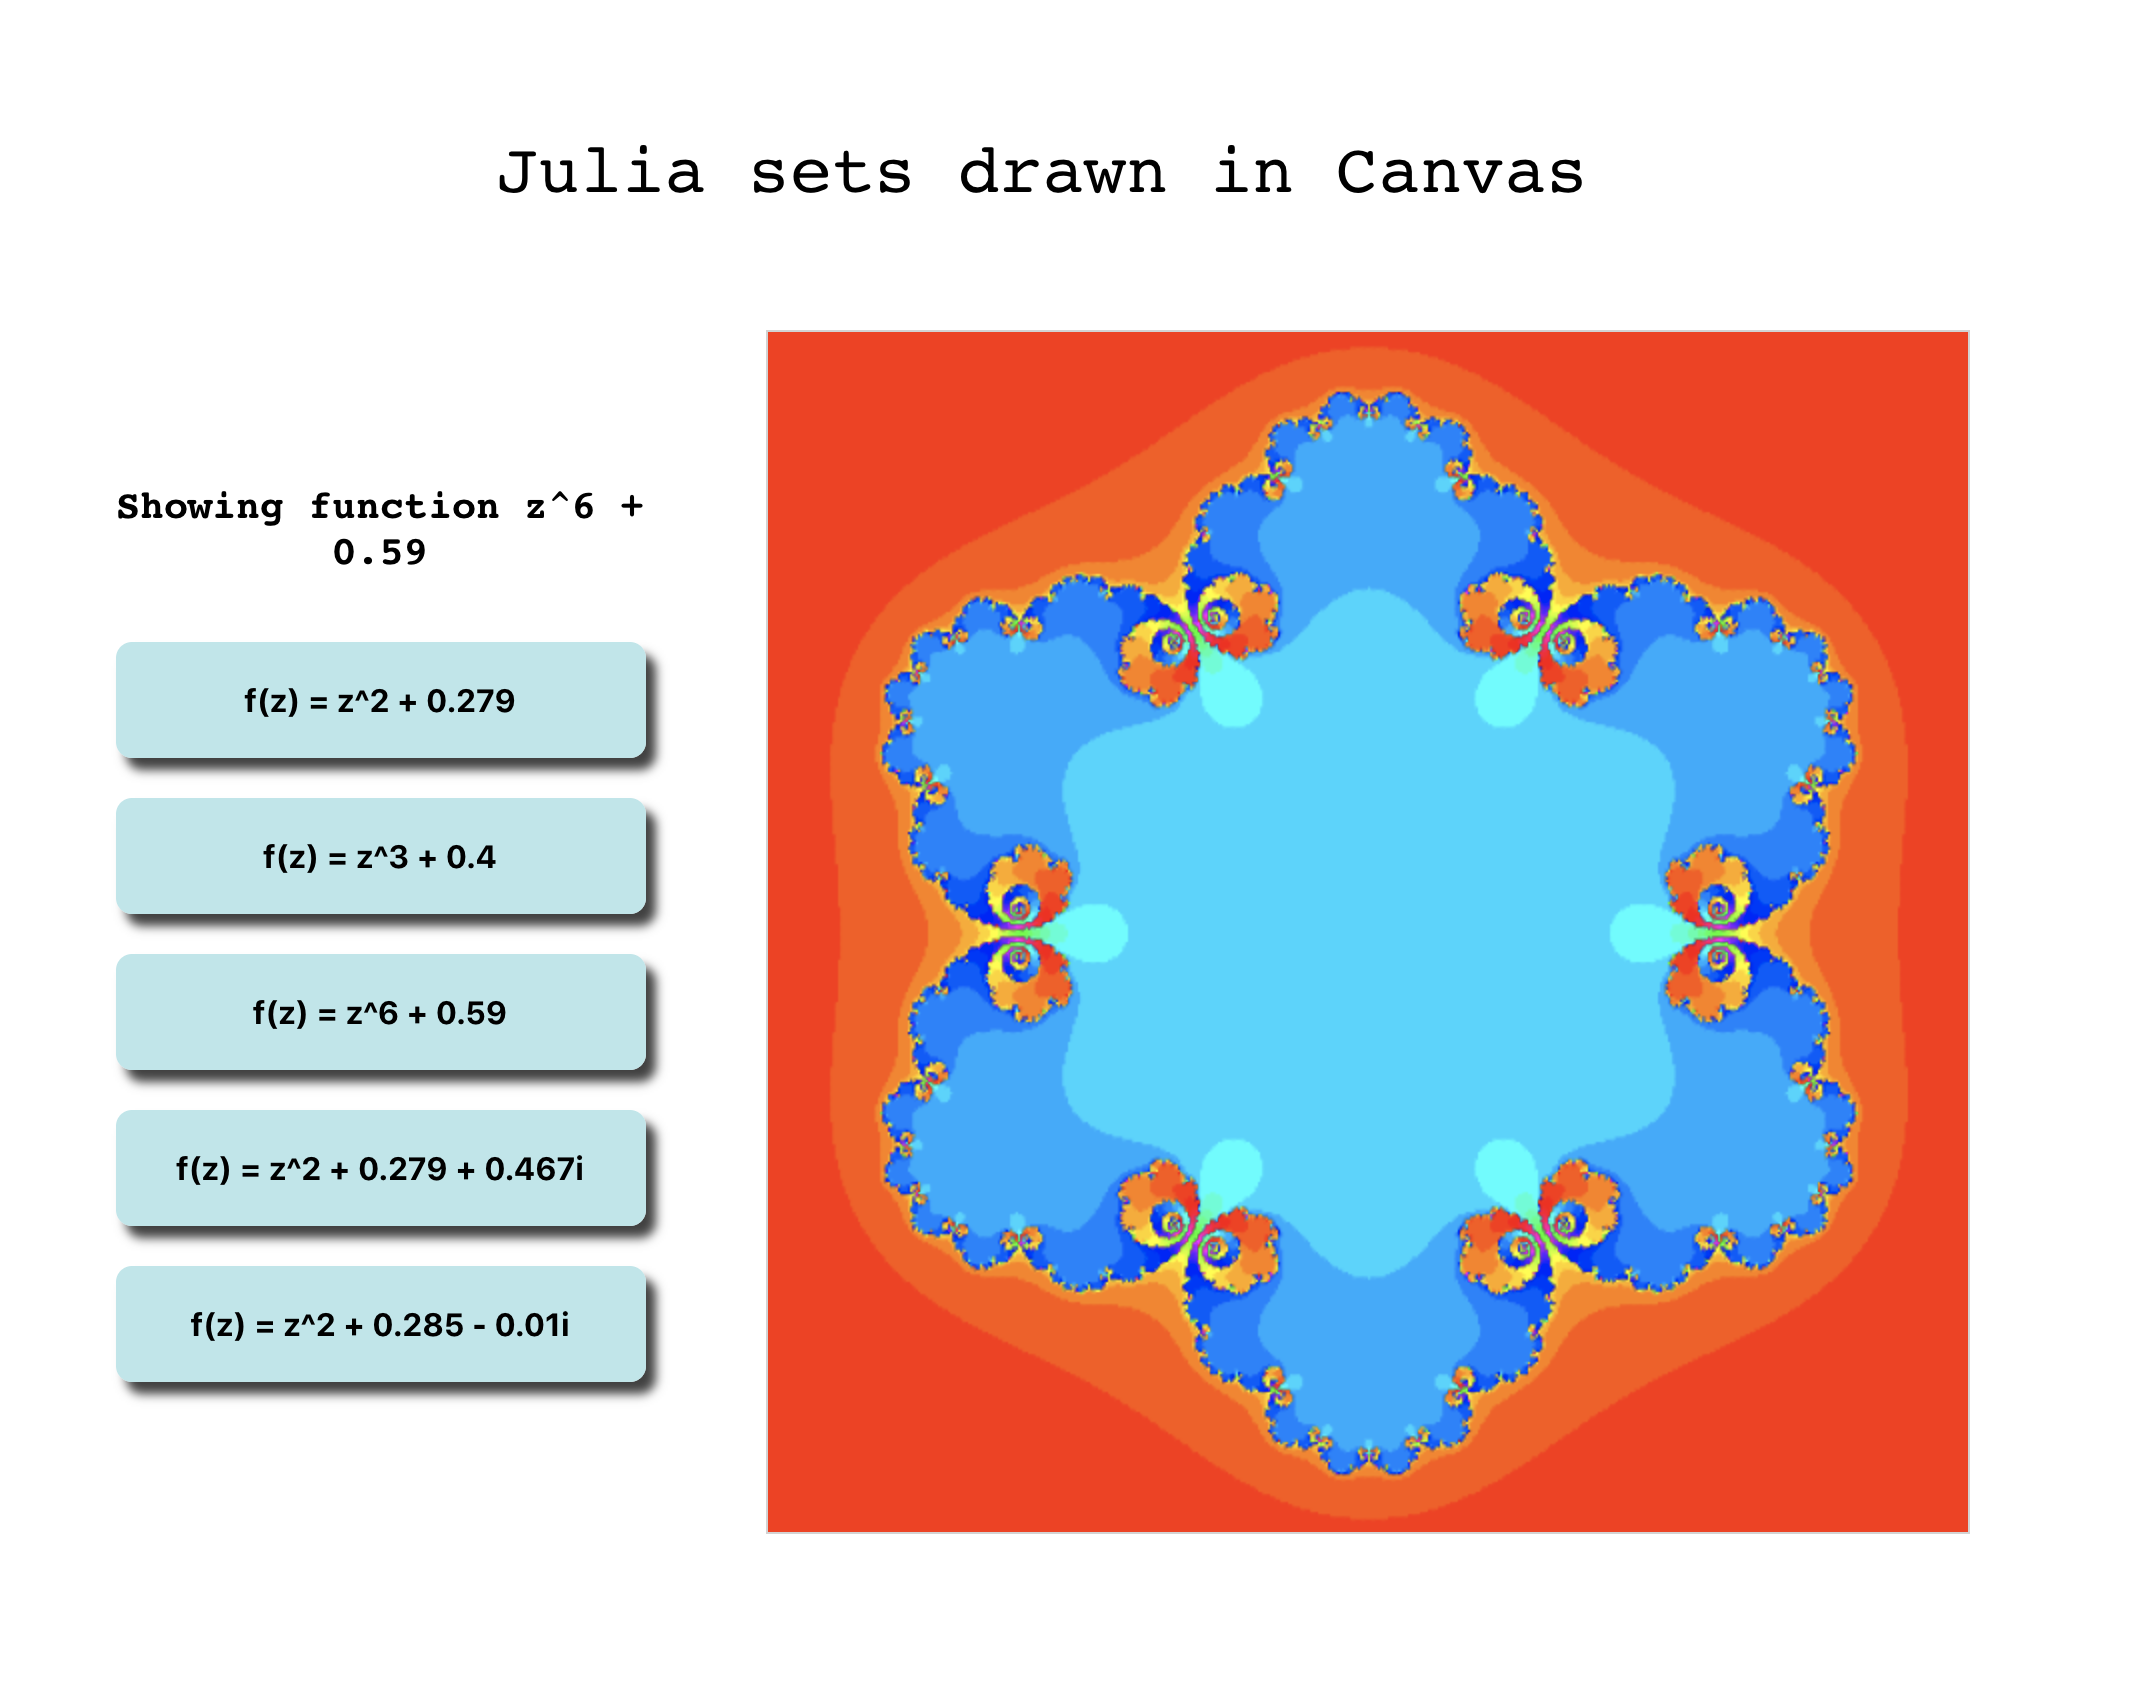
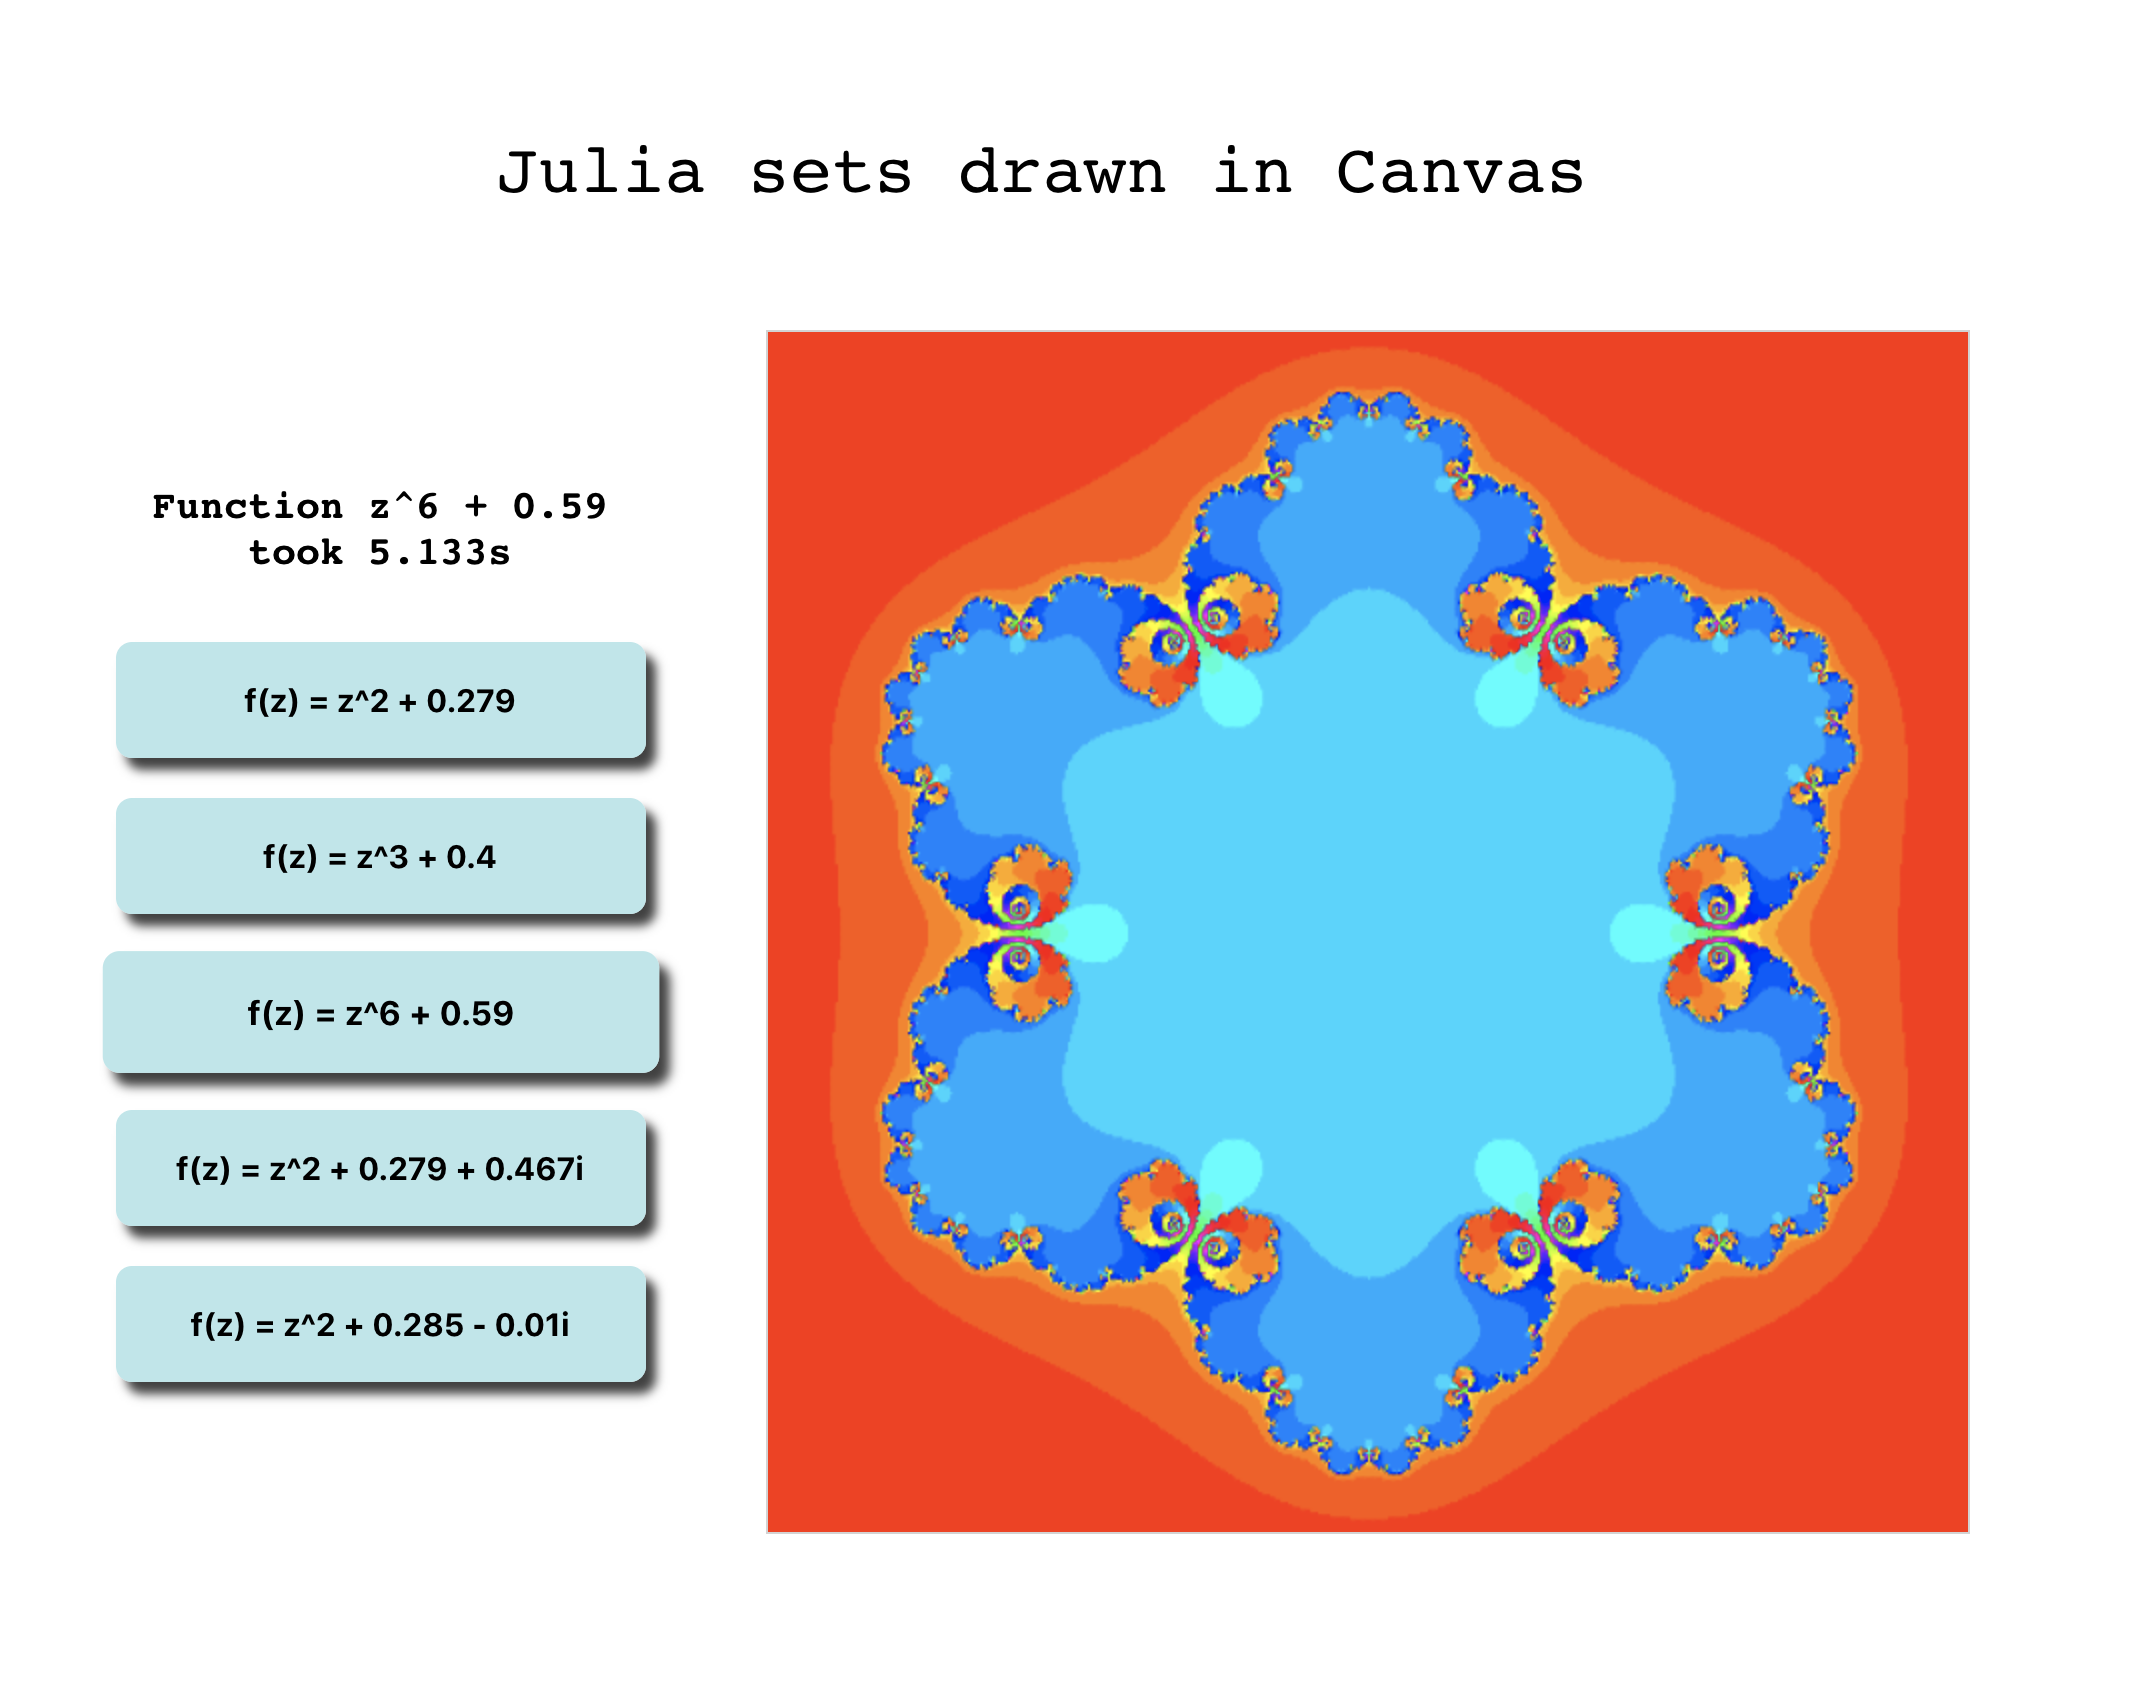
Performance evaluation + Snapshots

Changed region(s): [[0.031, 0.5552, 0.3408, 0.6477], [0.062, 0.2776, 0.3099, 0.3393]]

diff --git a/src/components/Julia.js b/src/components/Julia.js
@@ -55,6 +55,7 @@ function getJuliaSet(ref, active) {
 
 export const JuliaSetViewer = () => {
   const [activeFn, setActiveFn] = useState(-1);
+  const [execTime, setExecTime] = useState("");
   const canvasRef = React.useRef(null);
 
   return (
@@ -64,14 +65,18 @@ export const JuliaSetViewer = () => {
         <FunctionsWrapper>
           <ActiveSet>
             {activeFn === -1
-              ? "Select a function from above:"
-              : `Showing function z^${sets[activeFn].power} + ${sets[activeFn].constant}`}
+              ? "Select a function:"
+              : `Function z^${sets[activeFn].power} + ${sets[activeFn].constant} took ${execTime}`}
           </ActiveSet>
           {sets.map((set, index) => (
             <StyledFunction
+              key={`julia-${index}`}
               onClick={() => {
                 setActiveFn(index);
+                const start = performance.now();
                 getJuliaSet(canvasRef, index);
+                const end = performance.now();
+                setExecTime(`${Math.round(end - start) / 1000}s`);
               }}
             >
               {`f(z) = z^${set.power} + ${set.constant}`}

diff --git a/public/index.html b/public/index.html
@@ -9,7 +9,6 @@
       name="description"
       content="Web site created using create-react-app"
     />
-    <link rel="apple-touch-icon" href="%PUBLIC_URL%/logo192.png" />
     <!--
       manifest.json provides metadata used when your web app is installed on a
       user's mobile device or desktop. See https://developers.google.com/web/fundamentals/web-app-manifest/
